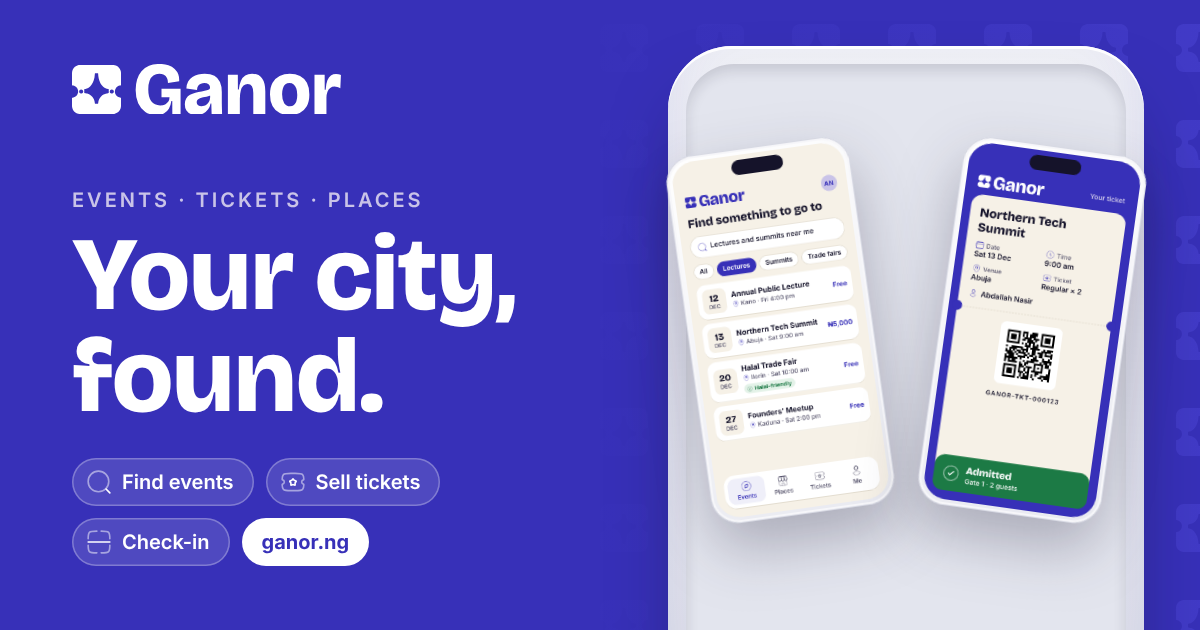
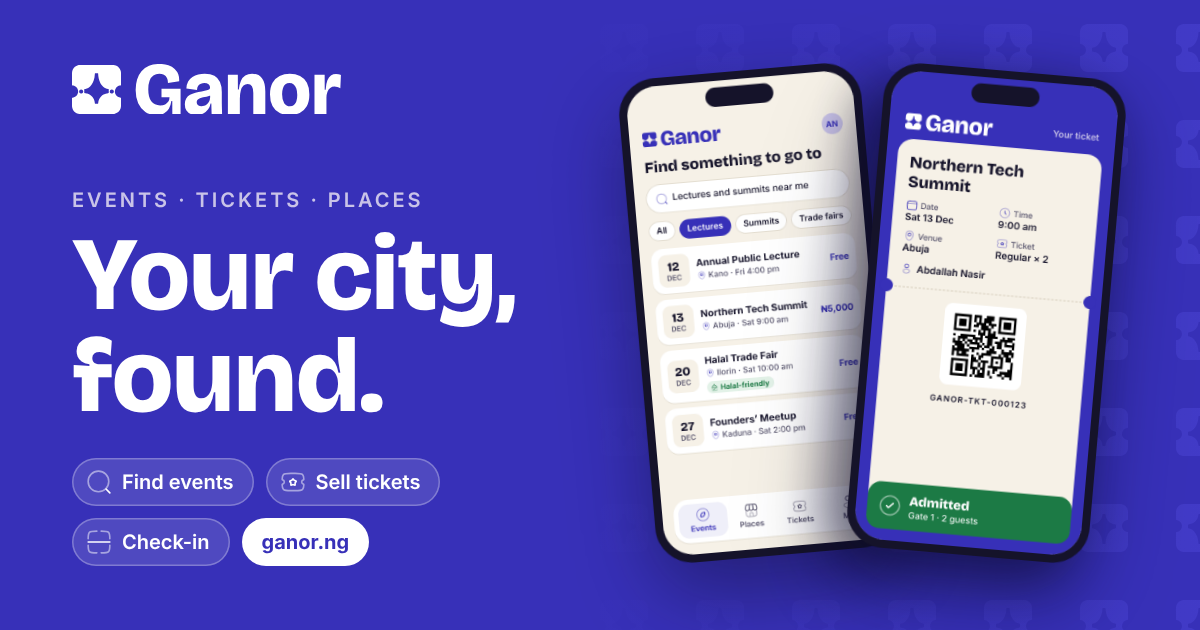
Home share image: two hero phones overlapping at the bottom
Black phones from the hero, sized from the logo line to the chip line and
kept inside the side margins. Inner pages keep their icon-tile images.
Share image links bumped to ?v=4.

Claude-Session: https://claude.ai/code/session_01KMECP4MKUtLn57SbmP24Mp

Changed region(s): [[0.4933, 0.0603, 0.9558, 1.0]]

diff --git a/index.html b/index.html
@@ -34,8 +34,8 @@
 <meta property="og:title" content="Ganor · Events, tickets and trusted places near you">
 <meta property="og:description" content="Find conferences, summits, trade fairs and halal-friendly events near you. Hosts share one link, sell tickets and scan guests in at the gate. Free events cost nothing.">
 <meta property="og:url" content="https://ganor.ng/">
-<meta property="og:image" content="https://ganor.ng/assets/img/og.png?v=3">
-<meta property="og:image:secure_url" content="https://ganor.ng/assets/img/og.png?v=3">
+<meta property="og:image" content="https://ganor.ng/assets/img/og.png?v=4">
+<meta property="og:image:secure_url" content="https://ganor.ng/assets/img/og.png?v=4">
 <meta property="og:image:type" content="image/png">
 <meta property="og:image:width" content="1200">
 <meta property="og:image:height" content="630">
@@ -44,7 +44,7 @@
 <meta name="twitter:site" content="@ganorng">
 <meta name="twitter:title" content="Ganor · Events, tickets and trusted places near you">
 <meta name="twitter:description" content="Find conferences, summits, trade fairs and halal-friendly events near you. Hosts share one link, sell tickets and scan guests in at the gate. Free events cost nothing.">
-<meta name="twitter:image" content="https://ganor.ng/assets/img/og.png?v=3">
+<meta name="twitter:image" content="https://ganor.ng/assets/img/og.png?v=4">
 <meta name="twitter:image:alt" content="Ganor: your city, found. Events, tickets and places near you.">
 <script type="application/ld+json">{"@context":"https://schema.org","@graph":[{"@type":"Organization","@id":"https://ganor.ng/#org","name":"Ganor","url":"https://ganor.ng/","logo":{"@type":"ImageObject","url":"https://ganor.ng/android-chrome-512x512.png","width":512,"height":512},"slogan":"Your city, found.","email":"support@ganor.ng","telephone":"+2348103301999","address":{"@type":"PostalAddress","streetAddress":"No. 15 Guda Abdullahi Road, Farm Center","addressLocality":"Kano","addressRegion":"Kano","addressCountry":"NG"},"contactPoint":[{"@type":"ContactPoint","contactType":"customer support","email":"support@ganor.ng","telephone":"+2348103301999","areaServed":"NG","availableLanguage":["English","Hausa"]}],"sameAs":["https://www.instagram.com/ganor.ng","https://www.tiktok.com/@ganor.ng","https://x.com/ganorng","https://www.facebook.com/ganor.ng","https://www.youtube.com/@ganor.ng"]},{"@type":"WebSite","@id":"https://ganor.ng/#website","url":"https://ganor.ng/","name":"Ganor","inLanguage":"en-NG","publisher":{"@id":"https://ganor.ng/#org"}},{"@type":"WebPage","@id":"https://ganor.ng/#page","url":"https://ganor.ng/","name":"Ganor · Events, tickets and trusted places near you","description":"Find conferences, summits, trade fairs and halal-friendly events near you. Hosts share one link, sell tickets and scan guests in at the gate. Free events cost nothing.","inLanguage":"en-NG","isPartOf":{"@id":"https://ganor.ng/#website"},"primaryImageOfPage":{"@type":"ImageObject","url":"https://ganor.ng/assets/img/og.png","width":1200,"height":630},"dateModified":"2026-11-10"},{"@type":"FAQPage","@id":"https://ganor.ng/#faq","mainEntity":[{"@type":"Question","name":"What is Ganor?","acceptedAnswer":{"@type":"Answer","text":"Ganor helps you find what’s happening in your city. Hosts create events, sell tickets or take free RSVPs, and scan guests in at the gate. Guests find events, pay, and get their ticket on WhatsApp. Ganor Places, for finding trusted local businesses, comes next."}},{"@type":"Question","name":"How do I say Ganor?","acceptedAnswer":{"@type":"Answer","text":"Say it Gah-nor. The name comes from gano, the Hausa word for finding something."}},{"@type":"Question","name":"When can I use it?","acceptedAnswer":{"@type":"Answer","text":"Very soon. Join the list and we’ll message you on WhatsApp the day Ganor opens."}},{"@type":"Question","name":"What does it cost to host?","acceptedAnswer":{"@type":"Answer","text":"Free events cost nothing. On paid tickets the fee is 5% + ₦100 per ticket, with card and transfer charges included. You choose whether the buyer pays it at checkout or you absorb it. Try the calculator to see what you take home."}},{"@type":"Question","name":"Where do guests get their ticket?","acceptedAnswer":{"@type":"Answer","text":"On WhatsApp, straight after they pay or RSVP. At the gate, the host scans the QR code with any phone."}},{"@type":"Question","name":"I bought a ticket. Who do I contact?","acceptedAnswer":{"@type":"Answer","text":"The host. Each event page shows how to reach the person running the event, so you can ask them about the venue, changes or refunds. Ganor sells and delivers the ticket; the host runs the event. If your ticket didn’t arrive, message us."}},{"@type":"Question","name":"Which cities is Ganor for?","acceptedAnswer":{"@type":"Answer","text":"Anywhere in Nigeria. Any host can create an event and sell tickets wherever the event is, and guests can find events in their own city. Ganor Places grows city by city."}},{"@type":"Question","name":"What does Halal-friendly mean?","acceptedAnswer":{"@type":"Answer","text":"It’s a label hosts can add so you can find events that fit your values. It can cover how the event is run, such as halal food, no alcohol and time for prayer, and what it’s about, such as Islamic finance, halal investment and halal trade. The event page shows exactly what the host ticked. It’s the host’s description; Ganor doesn’t certify events. Read more."}}]}]}</script>
 <script>document.documentElement.classList.add('js');try{if(localStorage.getItem('ganor-intro')||matchMedia('(prefers-reduced-motion: reduce)').matches)document.documentElement.classList.add('no-intro')}catch(e){document.documentElement.classList.add('no-intro')}</script>

diff --git a/docs.html b/docs.html
@@ -34,8 +34,8 @@
 <meta property="og:title" content="Docs · How Ganor works">
 <meta property="og:description" content="How to host an event on Ganor, sell tickets and free RSVPs, share one link, check guests in at the gate, and get your business on Ganor Places.">
 <meta property="og:url" content="https://ganor.ng/docs.html">
-<meta property="og:image" content="https://ganor.ng/assets/img/og-docs.png?v=3">
-<meta property="og:image:secure_url" content="https://ganor.ng/assets/img/og-docs.png?v=3">
+<meta property="og:image" content="https://ganor.ng/assets/img/og-docs.png?v=4">
+<meta property="og:image:secure_url" content="https://ganor.ng/assets/img/og-docs.png?v=4">
 <meta property="og:image:type" content="image/png">
 <meta property="og:image:width" content="1200">
 <meta property="og:image:height" content="630">
@@ -44,7 +44,7 @@
 <meta name="twitter:site" content="@ganorng">
 <meta name="twitter:title" content="Docs · How Ganor works">
 <meta name="twitter:description" content="How to host an event on Ganor, sell tickets and free RSVPs, share one link, check guests in at the gate, and get your business on Ganor Places.">
-<meta name="twitter:image" content="https://ganor.ng/assets/img/og-docs.png?v=3">
+<meta name="twitter:image" content="https://ganor.ng/assets/img/og-docs.png?v=4">
 <meta name="twitter:image:alt" content="Ganor docs: how Ganor works for hosts, guests and businesses.">
 <script type="application/ld+json">{"@context":"https://schema.org","@graph":[{"@type":"Organization","@id":"https://ganor.ng/#org","name":"Ganor","url":"https://ganor.ng/","logo":{"@type":"ImageObject","url":"https://ganor.ng/android-chrome-512x512.png","width":512,"height":512},"slogan":"Your city, found.","email":"support@ganor.ng","telephone":"+2348103301999","address":{"@type":"PostalAddress","streetAddress":"No. 15 Guda Abdullahi Road, Farm Center","addressLocality":"Kano","addressRegion":"Kano","addressCountry":"NG"},"contactPoint":[{"@type":"ContactPoint","contactType":"customer support","email":"support@ganor.ng","telephone":"+2348103301999","areaServed":"NG","availableLanguage":["English","Hausa"]}],"sameAs":["https://www.instagram.com/ganor.ng","https://www.tiktok.com/@ganor.ng","https://x.com/ganorng","https://www.facebook.com/ganor.ng","https://www.youtube.com/@ganor.ng"]},{"@type":"WebSite","@id":"https://ganor.ng/#website","url":"https://ganor.ng/","name":"Ganor","inLanguage":"en-NG","publisher":{"@id":"https://ganor.ng/#org"}},{"@type":"WebPage","@id":"https://ganor.ng/docs.html#page","url":"https://ganor.ng/docs.html","name":"Docs · How Ganor works","description":"How to host an event on Ganor, sell tickets and free RSVPs, share one link, check guests in at the gate, and get your business on Ganor Places.","inLanguage":"en-NG","isPartOf":{"@id":"https://ganor.ng/#website"},"primaryImageOfPage":{"@type":"ImageObject","url":"https://ganor.ng/assets/img/og-docs.png","width":1200,"height":630},"dateModified":"2026-11-10"},{"@type":"BreadcrumbList","itemListElement":[{"@type":"ListItem","position":1,"name":"Ganor","item":"https://ganor.ng/"},{"@type":"ListItem","position":2,"name":"Docs","item":"https://ganor.ng/docs.html"}]}]}</script>
 <script>document.documentElement.classList.add('js','no-intro')</script>

diff --git a/privacy.html b/privacy.html
@@ -34,8 +34,8 @@
 <meta property="og:title" content="Privacy policy · Ganor">
 <meta property="og:description" content="What personal data Ganor collects, why, who it is shared with, and your rights under the Nigeria Data Protection Act 2023.">
 <meta property="og:url" content="https://ganor.ng/privacy.html">
-<meta property="og:image" content="https://ganor.ng/assets/img/og-privacy.png?v=3">
-<meta property="og:image:secure_url" content="https://ganor.ng/assets/img/og-privacy.png?v=3">
+<meta property="og:image" content="https://ganor.ng/assets/img/og-privacy.png?v=4">
+<meta property="og:image:secure_url" content="https://ganor.ng/assets/img/og-privacy.png?v=4">
 <meta property="og:image:type" content="image/png">
 <meta property="og:image:width" content="1200">
 <meta property="og:image:height" content="630">
@@ -44,7 +44,7 @@
 <meta name="twitter:site" content="@ganorng">
 <meta name="twitter:title" content="Privacy policy · Ganor">
 <meta name="twitter:description" content="What personal data Ganor collects, why, who it is shared with, and your rights under the Nigeria Data Protection Act 2023.">
-<meta name="twitter:image" content="https://ganor.ng/assets/img/og-privacy.png?v=3">
+<meta name="twitter:image" content="https://ganor.ng/assets/img/og-privacy.png?v=4">
 <meta name="twitter:image:alt" content="Ganor privacy policy.">
 <script type="application/ld+json">{"@context":"https://schema.org","@graph":[{"@type":"Organization","@id":"https://ganor.ng/#org","name":"Ganor","url":"https://ganor.ng/","logo":{"@type":"ImageObject","url":"https://ganor.ng/android-chrome-512x512.png","width":512,"height":512},"slogan":"Your city, found.","email":"support@ganor.ng","telephone":"+2348103301999","address":{"@type":"PostalAddress","streetAddress":"No. 15 Guda Abdullahi Road, Farm Center","addressLocality":"Kano","addressRegion":"Kano","addressCountry":"NG"},"contactPoint":[{"@type":"ContactPoint","contactType":"customer support","email":"support@ganor.ng","telephone":"+2348103301999","areaServed":"NG","availableLanguage":["English","Hausa"]}],"sameAs":["https://www.instagram.com/ganor.ng","https://www.tiktok.com/@ganor.ng","https://x.com/ganorng","https://www.facebook.com/ganor.ng","https://www.youtube.com/@ganor.ng"]},{"@type":"WebSite","@id":"https://ganor.ng/#website","url":"https://ganor.ng/","name":"Ganor","inLanguage":"en-NG","publisher":{"@id":"https://ganor.ng/#org"}},{"@type":"WebPage","@id":"https://ganor.ng/privacy.html#page","url":"https://ganor.ng/privacy.html","name":"Privacy policy · Ganor","description":"What personal data Ganor collects, why, who it is shared with, and your rights under the Nigeria Data Protection Act 2023.","inLanguage":"en-NG","isPartOf":{"@id":"https://ganor.ng/#website"},"primaryImageOfPage":{"@type":"ImageObject","url":"https://ganor.ng/assets/img/og-privacy.png","width":1200,"height":630},"dateModified":"2026-11-10"},{"@type":"BreadcrumbList","itemListElement":[{"@type":"ListItem","position":1,"name":"Ganor","item":"https://ganor.ng/"},{"@type":"ListItem","position":2,"name":"Privacy policy","item":"https://ganor.ng/privacy.html"}]}]}</script>
 <script>document.documentElement.classList.add('js','no-intro')</script>

diff --git a/refunds.html b/refunds.html
@@ -34,8 +34,8 @@
 <meta property="og:title" content="Refund policy · Ganor">
 <meta property="og:description" content="How refunds work on Ganor: ask the host first, what happens when an event is cancelled, and when Ganor steps in.">
 <meta property="og:url" content="https://ganor.ng/refunds.html">
-<meta property="og:image" content="https://ganor.ng/assets/img/og-refunds.png?v=3">
-<meta property="og:image:secure_url" content="https://ganor.ng/assets/img/og-refunds.png?v=3">
+<meta property="og:image" content="https://ganor.ng/assets/img/og-refunds.png?v=4">
+<meta property="og:image:secure_url" content="https://ganor.ng/assets/img/og-refunds.png?v=4">
 <meta property="og:image:type" content="image/png">
 <meta property="og:image:width" content="1200">
 <meta property="og:image:height" content="630">
@@ -44,7 +44,7 @@
 <meta name="twitter:site" content="@ganorng">
 <meta name="twitter:title" content="Refund policy · Ganor">
 <meta name="twitter:description" content="How refunds work on Ganor: ask the host first, what happens when an event is cancelled, and when Ganor steps in.">
-<meta name="twitter:image" content="https://ganor.ng/assets/img/og-refunds.png?v=3">
+<meta name="twitter:image" content="https://ganor.ng/assets/img/og-refunds.png?v=4">
 <meta name="twitter:image:alt" content="Ganor refund policy.">
 <script type="application/ld+json">{"@context":"https://schema.org","@graph":[{"@type":"Organization","@id":"https://ganor.ng/#org","name":"Ganor","url":"https://ganor.ng/","logo":{"@type":"ImageObject","url":"https://ganor.ng/android-chrome-512x512.png","width":512,"height":512},"slogan":"Your city, found.","email":"support@ganor.ng","telephone":"+2348103301999","address":{"@type":"PostalAddress","streetAddress":"No. 15 Guda Abdullahi Road, Farm Center","addressLocality":"Kano","addressRegion":"Kano","addressCountry":"NG"},"contactPoint":[{"@type":"ContactPoint","contactType":"customer support","email":"support@ganor.ng","telephone":"+2348103301999","areaServed":"NG","availableLanguage":["English","Hausa"]}],"sameAs":["https://www.instagram.com/ganor.ng","https://www.tiktok.com/@ganor.ng","https://x.com/ganorng","https://www.facebook.com/ganor.ng","https://www.youtube.com/@ganor.ng"]},{"@type":"WebSite","@id":"https://ganor.ng/#website","url":"https://ganor.ng/","name":"Ganor","inLanguage":"en-NG","publisher":{"@id":"https://ganor.ng/#org"}},{"@type":"WebPage","@id":"https://ganor.ng/refunds.html#page","url":"https://ganor.ng/refunds.html","name":"Refund policy · Ganor","description":"How refunds work on Ganor: ask the host first, what happens when an event is cancelled, and when Ganor steps in.","inLanguage":"en-NG","isPartOf":{"@id":"https://ganor.ng/#website"},"primaryImageOfPage":{"@type":"ImageObject","url":"https://ganor.ng/assets/img/og-refunds.png","width":1200,"height":630},"dateModified":"2026-11-10"},{"@type":"BreadcrumbList","itemListElement":[{"@type":"ListItem","position":1,"name":"Ganor","item":"https://ganor.ng/"},{"@type":"ListItem","position":2,"name":"Refund policy","item":"https://ganor.ng/refunds.html"}]}]}</script>
 <script>document.documentElement.classList.add('js','no-intro')</script>

diff --git a/terms.html b/terms.html
@@ -34,8 +34,8 @@
 <meta property="og:title" content="Terms of use · Ganor">
 <meta property="og:description" content="The terms for using Ganor as a host, a guest or a business, written to be read.">
 <meta property="og:url" content="https://ganor.ng/terms.html">
-<meta property="og:image" content="https://ganor.ng/assets/img/og-terms.png?v=3">
-<meta property="og:image:secure_url" content="https://ganor.ng/assets/img/og-terms.png?v=3">
+<meta property="og:image" content="https://ganor.ng/assets/img/og-terms.png?v=4">
+<meta property="og:image:secure_url" content="https://ganor.ng/assets/img/og-terms.png?v=4">
 <meta property="og:image:type" content="image/png">
 <meta property="og:image:width" content="1200">
 <meta property="og:image:height" content="630">
@@ -44,7 +44,7 @@
 <meta name="twitter:site" content="@ganorng">
 <meta name="twitter:title" content="Terms of use · Ganor">
 <meta name="twitter:description" content="The terms for using Ganor as a host, a guest or a business, written to be read.">
-<meta name="twitter:image" content="https://ganor.ng/assets/img/og-terms.png?v=3">
+<meta name="twitter:image" content="https://ganor.ng/assets/img/og-terms.png?v=4">
 <meta name="twitter:image:alt" content="Ganor terms of use.">
 <script type="application/ld+json">{"@context":"https://schema.org","@graph":[{"@type":"Organization","@id":"https://ganor.ng/#org","name":"Ganor","url":"https://ganor.ng/","logo":{"@type":"ImageObject","url":"https://ganor.ng/android-chrome-512x512.png","width":512,"height":512},"slogan":"Your city, found.","email":"support@ganor.ng","telephone":"+2348103301999","address":{"@type":"PostalAddress","streetAddress":"No. 15 Guda Abdullahi Road, Farm Center","addressLocality":"Kano","addressRegion":"Kano","addressCountry":"NG"},"contactPoint":[{"@type":"ContactPoint","contactType":"customer support","email":"support@ganor.ng","telephone":"+2348103301999","areaServed":"NG","availableLanguage":["English","Hausa"]}],"sameAs":["https://www.instagram.com/ganor.ng","https://www.tiktok.com/@ganor.ng","https://x.com/ganorng","https://www.facebook.com/ganor.ng","https://www.youtube.com/@ganor.ng"]},{"@type":"WebSite","@id":"https://ganor.ng/#website","url":"https://ganor.ng/","name":"Ganor","inLanguage":"en-NG","publisher":{"@id":"https://ganor.ng/#org"}},{"@type":"WebPage","@id":"https://ganor.ng/terms.html#page","url":"https://ganor.ng/terms.html","name":"Terms of use · Ganor","description":"The terms for using Ganor as a host, a guest or a business, written to be read.","inLanguage":"en-NG","isPartOf":{"@id":"https://ganor.ng/#website"},"primaryImageOfPage":{"@type":"ImageObject","url":"https://ganor.ng/assets/img/og-terms.png","width":1200,"height":630},"dateModified":"2026-11-10"},{"@type":"BreadcrumbList","itemListElement":[{"@type":"ListItem","position":1,"name":"Ganor","item":"https://ganor.ng/"},{"@type":"ListItem","position":2,"name":"Terms of use","item":"https://ganor.ng/terms.html"}]}]}</script>
 <script>document.documentElement.classList.add('js','no-intro')</script>

diff --git a/tools/og.py b/tools/og.py
@@ -21,7 +21,7 @@ def icon(name, cls=""):
 
 # file, kicker, title (use <br>), subtitle, big icon, chips [(icon, text)], url
 CARDS = [
-    # The home card shows two app screens from the hero, in white phones set in a tray.
+    # The home card shows two app screens from the hero, sized to run from the logo line to the chip line.
     ("og.png", "Events · Tickets · Places", "Your city,<br>found.",
      None, "phones", [("search", "Find events"), ("ticket", "Sell tickets"), ("scan", "Check-in")], "ganor.ng"),
     ("og-docs.png", "Docs", "How Ganor<br>works.",
@@ -63,12 +63,10 @@ p.s{margin:18px 0 0;max-width:640px;font:500 26px/1.35 Inter;color:rgba(255,255,
 .stack .t:nth-child(3){transform:translateX(-30px) rotate(-3deg)}
 .home .in{max-width:640px}
 .home .foot{max-width:590px}
-.tray{position:absolute;left:668px;right:56px;top:46px;height:700px;border-radius:64px;background:linear-gradient(180deg,#EEEFF5 0%,#DCDEE8 100%);box-shadow:inset 0 3px 0 rgba(255,255,255,.9),inset 0 -40px 60px rgba(55,48,184,.10),0 40px 80px -30px rgba(21,19,42,.6)}
-.tray:before{content:"";position:absolute;inset:18px;border-radius:48px;background:#E3E5EE;box-shadow:inset 0 6px 14px rgba(21,19,42,.14)}
-.ph{position:absolute;top:84px;width:186px;filter:drop-shadow(0 26px 30px rgba(21,19,42,.28))}
+.ph{position:absolute;top:70px;width:244px;filter:drop-shadow(0 30px 40px rgba(10,8,40,.45))}
 .ph img{display:block;width:100%;height:auto}
-.ph--l{left:calc(50% - 194px);transform:rotate(-8deg);transform-origin:100% 100%}
-.ph--r{right:calc(50% - 194px);transform:rotate(8deg);transform-origin:0 100%}
+.ph--l{left:636px;transform:rotate(-5deg)}
+.ph--r{left:864px;transform:rotate(5deg);filter:drop-shadow(-18px 18px 26px rgba(10,8,40,.55)) drop-shadow(0 30px 40px rgba(10,8,40,.35))}
 """
 
 
@@ -76,8 +74,8 @@ def card_html(kicker, title, sub, big, chips, url):
     chips_html = "".join(f'<span class="chip">{icon(i)}{t}</span>' for i, t in chips)
     home = big == "phones"
     if home:
-        art = ('<div class="tray"><div class="ph ph--l"><img src="_phones/find.png" alt=""></div>'
-               '<div class="ph ph--r"><img src="_phones/ticket.png" alt=""></div></div>')
+        art = ('<div class="ph ph--l"><img src="_phones/find.png" alt=""></div>'
+               '<div class="ph ph--r"><img src="_phones/ticket.png" alt=""></div>')
     elif big:
         art = f'<div class="tile">{icon(big)}</div>'
     else:
@@ -101,10 +99,10 @@ SET_SCREEN = """(i) => {
   const caret = live.querySelector('.app__caret'); if (caret) caret.style.display = 'none';
   if (i === 2) live.querySelector('.scr--tk').classList.add('is-admitted');
 }"""
-# Freeze the hero and turn its phone into a white one, like the share-image mockup.
+# Freeze the hero phone on one screen, without its shadow (the card adds its own).
 FREEZE = """*{animation:none!important;transition:none!important}
 [data-rise]{opacity:1!important;transform:none!important} [data-tag]{display:none!important}
-.phone{background:linear-gradient(160deg,#FFFFFF,#E9EAF1)!important;box-shadow:inset 0 0 0 1.5px #D3D5E0,inset 0 0 0 5px #F7F7FA!important}
+.phone{box-shadow:none!important}
 html,body,.hero,.hero *:not(.phone):not(.phone *){background:transparent!important}
 .hero::before,.hero::after,.hero__visual::before,.hero__visual::after{display:none!important}"""
 

diff --git a/tools/seo.py b/tools/seo.py
@@ -10,7 +10,7 @@ import re
 
 SITE = "https://ganor.ng"
 # Bump when the share images change, so WhatsApp, Facebook and X fetch the new ones.
-OG_VERSION = "3"
+OG_VERSION = "4"
 NAME = "Ganor"
 LOCALE = "en_NG"
 X_HANDLE = "@ganorng"
